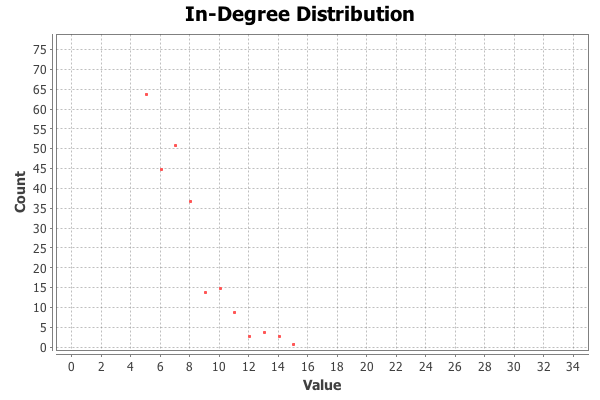
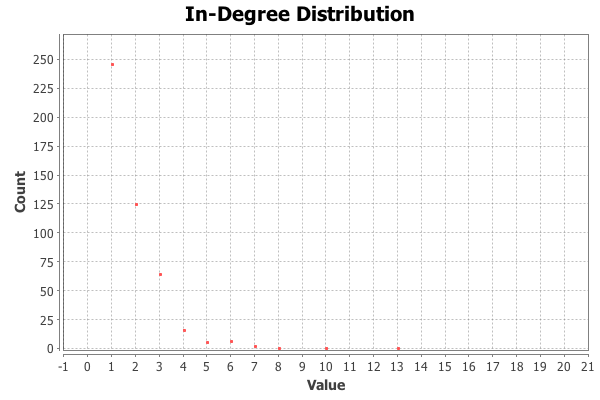
Fix the figures and plots

diff --git a/chapters/vizpub.tex b/chapters/vizpub.tex
@@ -897,11 +897,12 @@ researchers and developers towards potential issues or bugs. We believe
 In Figure~\ref{fig:struct} we visualize the structure of PolderCast and
 Scribe. We run PeerNet experiments in simulation mode, consisting of
 1000 nodes, 1000 reporter intervals and 1000 PeerNet cycles.
-Subscriptions are modeled after the Twitter dataset found
-in~\cite{Kwak10www}. The resulting \gexf{} files are imported into Gephi
+Subscriptions are modeled after the Facebook dataset found
+in~\cite{}. The resulting \gexf{} files are imported into Gephi
 in order to analyze the overlay structure both visually as well by
 calculating certain metrics using the \emph{Statistics Component}. The
-calculated values are described in Table~\ref{tab:struct_metrics}.
+calculated values are described in Table~\ref{tab:struct_metrics}. These
+values are averages across the duration of the experiment.
 
 \begin{table}[h!]
     \centering
@@ -909,15 +910,15 @@ calculated values are described in Table~\ref{tab:struct_metrics}.
         \hline
         & PolderCast & Scribe \\ \hline
         \hline
-        Number of Nodes & 771 & 771 \\ \hline
-        Number of Edges & 24152 & 2700 \\ \hline
-        Average Degree & 31.33 & 3.50 \\ \hline
-        Graph Diameter & 5 & 15 \\ \hline
-        Average Path Length & 2.43 & 5.26 \\ \hline
-        Graph Density & 0.041 & 0.005 \\ \hline
-        Weakly Connected Components & 7 & 84 \\ \hline
-        Strongly Connected Components & 20 & 307 \\ \hline
-        Average Clustering Coefficient & 0.249 & 0.035 \\ \hline
+        Number of Nodes & 833 & 833 \\ \hline
+        Number of Edges & 18629 & 883 \\ \hline
+        Average Degree & 22.36 & 1.06 \\ \hline
+        Graph Diameter & 10 & 22 \\ \hline
+        Average Path Length & 2.96 & 8.9 \\ \hline
+        Graph Density & 0.027 & 0.001 \\ \hline
+        Weakly Connected Components & 63 & 280 \\ \hline
+        Strongly Connected Components & 83 & 623 \\ \hline
+        Average Clustering Coefficient & 0.369 & 0.003 \\ \hline
 
     \end{tabular}
     \caption{Calculated metric values for PolderCast and Scribe, calculated using
@@ -951,13 +952,21 @@ of subscriptions $O(|\mathcal T_v|)$.
     \vspace{-100pt}
     \thisfloatpagestyle{empty}
     \subfigure[PolderCast]{%
-        \includegraphics[scale=0.44]{figures/polder_struct}
+        \includegraphics[scale=0.67]{figures/polder_structure}
     }
     \subfigure[Scribe]{%
-        \includegraphics[scale=0.44]{figures/scribe_struct}
+        \includegraphics[scale=0.67]{figures/scribe_structure}
+        % Use vizpub as a tool for evaluating experiments. We update both
+        % poldercast and scribe, in order to expand the evaluation
+        % performed in the poldercast paper. Emphasize how the vizpub tool
+        % along with the gephi framework enable us to easily expand the
+        % evaluation on particular metrics, as these are inlcuded in
+        % gephi. These metrics include, in-degree, out-degree, clustering
+        % coefficient and centralities.
+
     }
     \caption{Visualizaton of the \textbf{overlay
-            strucure} of PolderCast and Scribe}
+            strucure} of PolderCast and Scribe after 1000 intervals}
     \label{fig:struct}
 \end{figure}
 
@@ -1137,11 +1146,11 @@ more thorough evaluation.
     \vspace{-100pt}
     \thisfloatpagestyle{empty}
     \subfigure[PolderCast]{%
-        \includegraphics[scale=0.49]{figures/polder_degree}
+        \includegraphics[scale=0.67]{figures/polder_degree}
         \label{fig:polder_degree}
     }
     \subfigure[Scribe]{%
-        \includegraphics[scale=0.49]{figures/scribe_degree}
+        \includegraphics[scale=0.67]{figures/scribe_degree}
         \label{fig:scribe_degree}
     }
     \caption{Visualization of \textbf{degree} in
